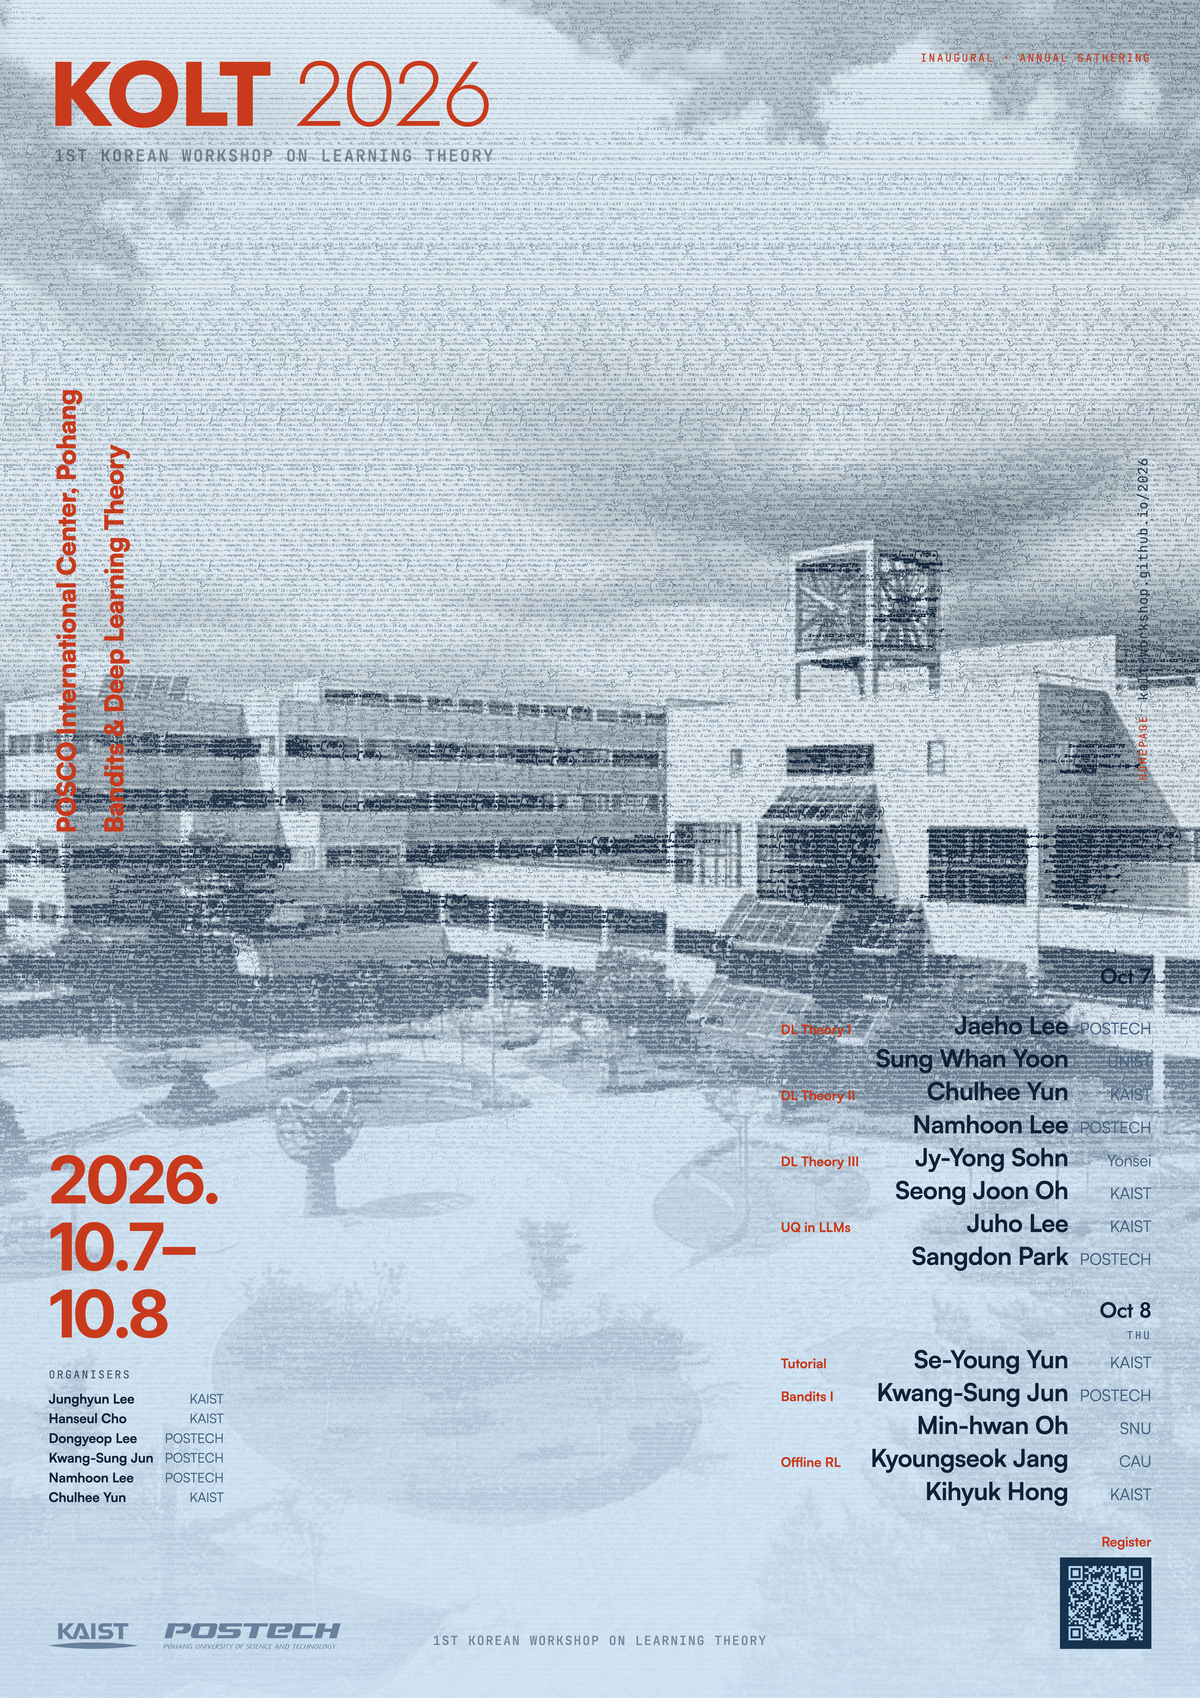
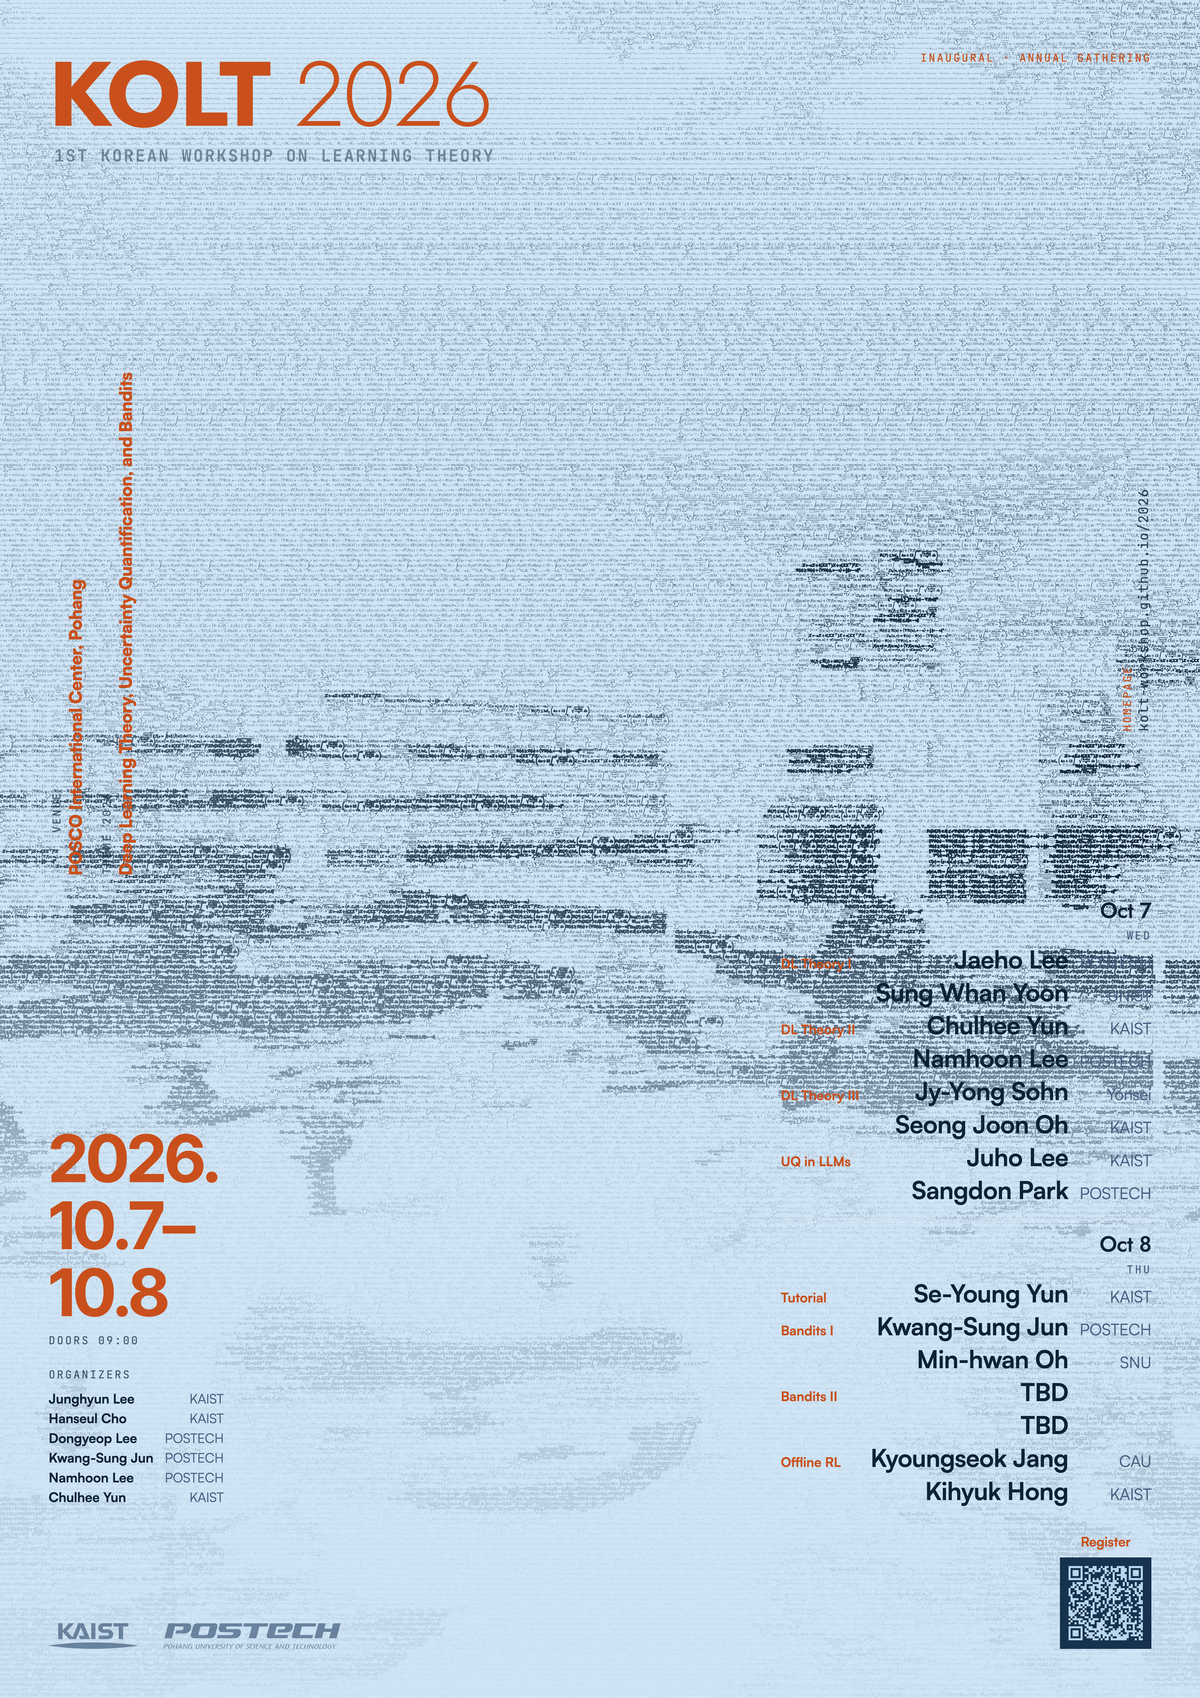
Orange on the light sheet, the plate off the hero, room above the shadow
The light sheet's accent was #c93a1c — hue 10, and dark enough for a pale
ground, which together read as blood rather than as the coral the dark sheet
uses. Walking the hue to 18 at the same lightness keeps 3.5:1 against the pale
blue and reads warm. The site's light theme takes it too; they were the same
value and should stay so.

The hero loses its plate again and the scrims go back to carrying the contrast,
at the weights that measured 8:1 before the plate was tried.

The rails are 6mm. The theme names three fields and the run they have shrank
when Bandits II added two rows to the programme, so one line at a comfortable
size no longer fits; the length cap stays, because it is what stops this from
needing a new number every time the programme changes.

And the poster strip's shadow had room below it and not above: a shadow that
reaches 44px reaches up as far as it reaches down, less its 18px offset. 28px
at the top rather than 10.

Both sheets are re-exported, and the page's copies with them.

diff --git a/templates/style.css b/templates/style.css
@@ -604,38 +604,9 @@ body {
       rgba(11, 17, 28, 0.95) 100%
     );
 }
-/* The words get their own ground, and the picture keeps its own.
-
-   A full-frame scrim can only trade one against the other: turn it up and the
-   type reads while the campus goes to a pale wash, turn it down and the campus
-   returns and the type sits in the middle of it. Both were asked for, and the
-   way to have both is to stop buying contrast across the whole frame and buy
-   it only where the words are.
-
-   So the text column stands on a translucent plate, and the scrim over the
-   rest of the picture can be light. The plate is the same device the sheet
-   uses behind its QR and the page uses behind every card, which is why it does
-   not read as a new idea — it reads as the hero finally doing what the rest of
-   the page does. */
 .hero > .wrap {
   position: relative;
   z-index: 3;
-}
-.hero > .wrap::before {
-  content: "";
-  position: absolute;
-  inset: -22px -26px -26px -26px;
-  z-index: -1;
-  border-radius: 18px;
-  background: var(--hero-plate);
-  /* No blur. It was tried, and blurring what is behind the plate is the one
-     thing that cannot be done here: the drawing under the words is the same
-     drawing as everywhere else, and softening two thirds of it to sharpen the
-     type trades the picture away in a different currency. The plate tints; the
-     picture stays in focus. */
-  -webkit-backdrop-filter: var(--hero-plate-blur);
-  backdrop-filter: var(--hero-plate-blur);
-  pointer-events: none;
 }
 /* soft-light rather than plain opacity: it lifts the ground where a formula
    passes instead of painting grey on top, so the glyphs read as the scrim
@@ -3390,8 +3361,10 @@ a.poster-shot:focus-visible {
        but the margin that gives it back can only be as wide as the gutter it
        is eating into. */
     margin-inline: -20px;
-    padding-block: 10px 34px;
-    margin-block: -10px -34px;
+    /* The shadow reaches 44px, and it reaches up as far as it reaches down
+       minus its 18px offset — so the top needs 26px, not 10. */
+    padding-block: 28px 34px;
+    margin-block: -28px -34px;
     scrollbar-width: none;
   }
   .poster-set::-webkit-scrollbar {
@@ -3436,8 +3409,6 @@ a.poster-shot:focus-visible {
    opacity and a brightness filter. */
 :root {
   --logo-plate: rgba(255, 255, 255, 0.92);
-  --hero-plate: linear-gradient(to bottom, rgba(9, 15, 25, 0.38), rgba(9, 15, 25, 0.54));
-  --hero-plate-blur: none;
   --hero-photo: url("hero.jpg");
   --hero-photo-opacity: 0.28;
   --hero-photo-filter: none;
@@ -3482,10 +3453,10 @@ a.poster-shot:focus-visible {
        being too dark rather than as the picture being held back. */
     linear-gradient(
       to bottom,
-      rgba(13, 21, 34, 0.14) 0%,
-      rgba(13, 21, 34, 0.2) 30%,
-      rgba(12, 19, 31, 0.34) 58%,
-      rgba(11, 17, 28, 0.44) 100%
+      rgba(13, 21, 34, 0.3) 0%,
+      rgba(13, 21, 34, 0.38) 30%,
+      rgba(12, 19, 31, 0.62) 58%,
+      rgba(11, 17, 28, 0.74) 100%
     );
 }
 
@@ -3503,18 +3474,14 @@ a.poster-shot:focus-visible {
      stands on. */
   --hero-mute: #33506f;
     --hero-rule: rgba(13, 33, 55, 0.16);
-    --hero-accent: #c93a1c;
+    /* Orange, not red. #c93a1c sits at hue 10 with the lightness a light
+     ground needs, and at that hue the darkness reads as blood rather than
+     as the coral the dark sheet uses. Walking the hue to 18 at the same
+     lightness keeps 3.5:1 against the pale blue and reads warm. */
+  --hero-accent: #c9501c;
     --hero-art-ink: #16324f;
     --logo-plate: rgba(255, 255, 255, 0.78);
-  --hero-plate: linear-gradient(to bottom, rgba(238, 246, 253, 0.56), rgba(228, 240, 251, 0.7));
-  --hero-plate-blur: none;
-    --hero-plate: linear-gradient(to bottom, rgba(238, 246, 253, 0.56), rgba(228, 240, 251, 0.7));
-    --hero-plate-blur: none;
     --logo-plate: rgba(255, 255, 255, 0.78);
-  --hero-plate: linear-gradient(to bottom, rgba(238, 246, 253, 0.56), rgba(228, 240, 251, 0.7));
-  --hero-plate-blur: none;
-    --hero-plate: linear-gradient(to bottom, rgba(238, 246, 253, 0.56), rgba(228, 240, 251, 0.7));
-    --hero-plate-blur: none;
   --hero-photo: url("hero-paper.jpg");
     --hero-photo-opacity: 0.62;
     --hero-art-image: url("hero-paper-ink.jpg");
@@ -3538,19 +3505,19 @@ a.poster-shot:focus-visible {
        spend contrast on, and the wash is the only thing buying it. */
     --hero-scrim-narrow: linear-gradient(
         to bottom,
-        rgba(232, 243, 252, 0.3) 0%,
-        rgba(222, 237, 250, 0.34) 26%,
-        rgba(203, 226, 244, 0.4) 52%,
-        rgba(184, 211, 236, 0.46) 100%
+        rgba(232, 243, 252, 0.84) 0%,
+        rgba(222, 237, 250, 0.86) 26%,
+        rgba(203, 226, 244, 0.88) 52%,
+        rgba(184, 211, 236, 0.9) 100%
       );
     --hero-scrim-narrow-art: linear-gradient(
         to bottom,
-        rgba(232, 243, 252, 0.34) 0%,
-        rgba(222, 237, 250, 0.38) 26%,
-        rgba(203, 226, 244, 0.44) 52%,
-        rgba(184, 211, 236, 0.5) 100%
+        rgba(232, 243, 252, 0.86) 0%,
+        rgba(222, 237, 250, 0.88) 26%,
+        rgba(203, 226, 244, 0.9) 52%,
+        rgba(184, 211, 236, 0.92) 100%
       );
-    --hero-art-opacity-narrow: 0.6;
+    --hero-art-opacity-narrow: 0.32;
     --hero-art-filter-narrow: contrast(1.15) brightness(1.02) url(#ink-floor);
     /* Let go much sooner across the frame than the dark one does. There the
        scrim can be heavy because the writing is bright against it; here the
@@ -3564,10 +3531,10 @@ a.poster-shot:focus-visible {
       ),
       linear-gradient(
         to bottom,
-        rgba(207, 228, 245, 0.04) 0%,
-        rgba(190, 214, 236, 0.14) 40%,
-        rgba(160, 192, 222, 0.3) 66%,
-        rgba(136, 174, 211, 0.42) 100%
+        rgba(207, 228, 245, 0.06) 0%,
+        rgba(190, 214, 236, 0.24) 40%,
+        rgba(152, 186, 219, 0.56) 66%,
+        rgba(126, 166, 205, 0.74) 100%
       );
   }
 }
@@ -3582,11 +3549,13 @@ a.poster-shot:focus-visible {
      stands on. */
   --hero-mute: #33506f;
   --hero-rule: rgba(13, 33, 55, 0.16);
-  --hero-accent: #c93a1c;
+  /* Orange, not red. #c93a1c sits at hue 10 with the lightness a light
+     ground needs, and at that hue the darkness reads as blood rather than
+     as the coral the dark sheet uses. Walking the hue to 18 at the same
+     lightness keeps 3.5:1 against the pale blue and reads warm. */
+  --hero-accent: #c9501c;
   --hero-art-ink: #16324f;
   --logo-plate: rgba(255, 255, 255, 0.78);
-  --hero-plate: linear-gradient(to bottom, rgba(238, 246, 253, 0.56), rgba(228, 240, 251, 0.7));
-  --hero-plate-blur: none;
   --hero-photo: url("hero-paper.jpg");
   --hero-photo-opacity: 0.62;
   --hero-art-image: url("hero-paper-ink.jpg");
@@ -3606,19 +3575,19 @@ a.poster-shot:focus-visible {
   --hero-pill-bg: rgba(240, 247, 253, 0.72);
   --hero-scrim-narrow: linear-gradient(
       to bottom,
-      rgba(232, 243, 252, 0.3) 0%,
-      rgba(222, 237, 250, 0.34) 26%,
-      rgba(203, 226, 244, 0.4) 52%,
-      rgba(184, 211, 236, 0.46) 100%
+      rgba(232, 243, 252, 0.84) 0%,
+      rgba(222, 237, 250, 0.86) 26%,
+      rgba(203, 226, 244, 0.88) 52%,
+      rgba(184, 211, 236, 0.9) 100%
     );
   --hero-scrim-narrow-art: linear-gradient(
       to bottom,
-      rgba(232, 243, 252, 0.34) 0%,
-      rgba(222, 237, 250, 0.38) 26%,
-      rgba(203, 226, 244, 0.44) 52%,
-      rgba(184, 211, 236, 0.5) 100%
+      rgba(232, 243, 252, 0.86) 0%,
+      rgba(222, 237, 250, 0.88) 26%,
+      rgba(203, 226, 244, 0.9) 52%,
+      rgba(184, 211, 236, 0.92) 100%
     );
-  --hero-art-opacity-narrow: 0.6;
+  --hero-art-opacity-narrow: 0.32;
   --hero-art-filter-narrow: contrast(1.15) brightness(1.02) url(#ink-floor);
   --hero-scrim: linear-gradient(
       to right,
@@ -3629,9 +3598,9 @@ a.poster-shot:focus-visible {
     ),
     linear-gradient(
       to bottom,
-      rgba(207, 228, 245, 0.04) 0%,
-      rgba(190, 214, 236, 0.14) 40%,
-      rgba(160, 192, 222, 0.3) 66%,
-      rgba(136, 174, 211, 0.42) 100%
+      rgba(207, 228, 245, 0.06) 0%,
+      rgba(190, 214, 236, 0.24) 40%,
+      rgba(152, 186, 219, 0.56) 66%,
+      rgba(126, 166, 205, 0.74) 100%
     );
 }

diff --git a/tools/poster.py b/tools/poster.py
@@ -754,8 +754,8 @@ FESTIVAL = """<!doctype html>
      begins. The rails are as large as their longest line lets them be, and
      that line is the one that decides. */
   .rail span {{
-    display:block; max-inline-size:168mm;
-    font-family:"Satoshi","Helvetica Neue",sans-serif; font-size:7.4mm;
+    display:block; max-inline-size:228mm;
+    font-family:"Satoshi","Helvetica Neue",sans-serif; font-size:6mm;
     font-weight:900; letter-spacing:-.014em; line-height:1.22; color:{hot};
   }}
   /* A third rail on the opposite edge. It is a member of the same flex row
